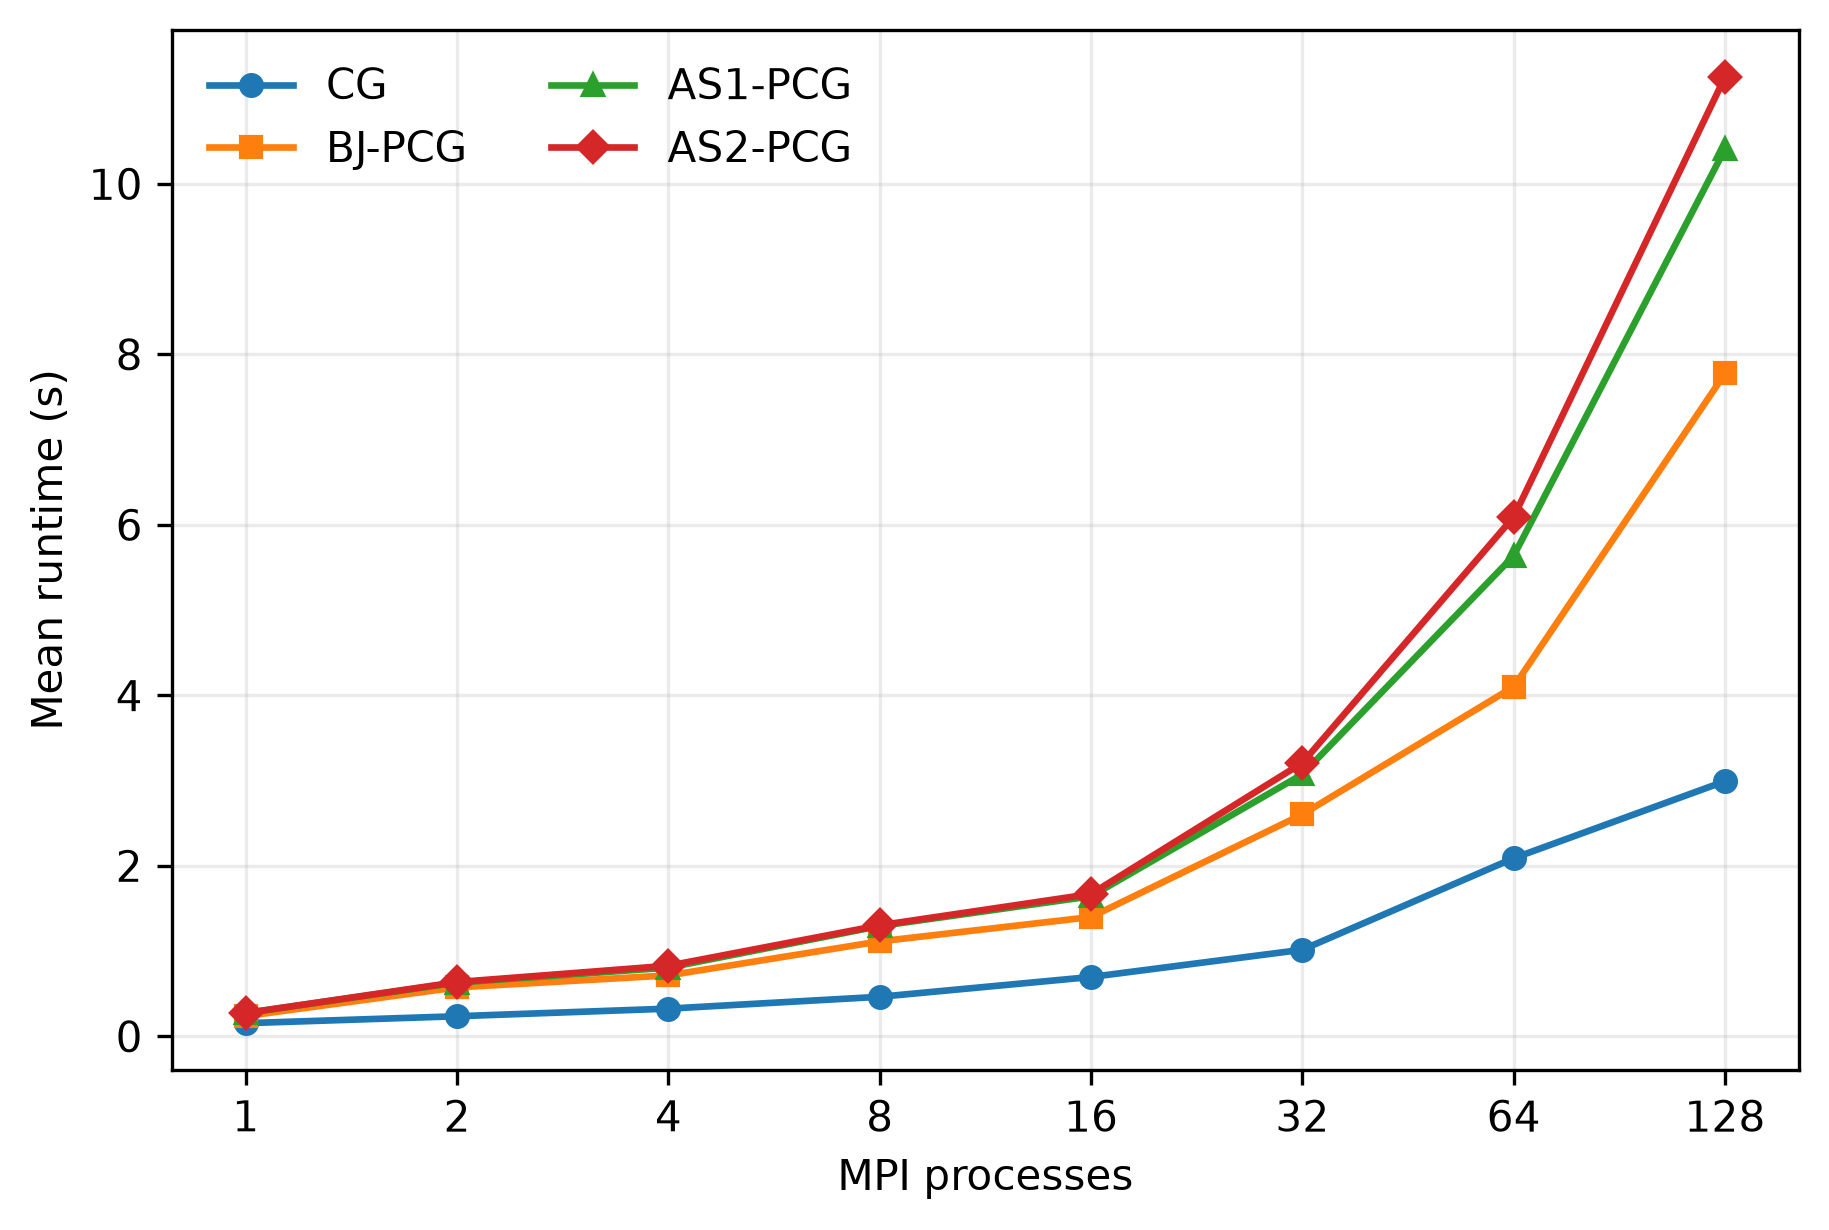
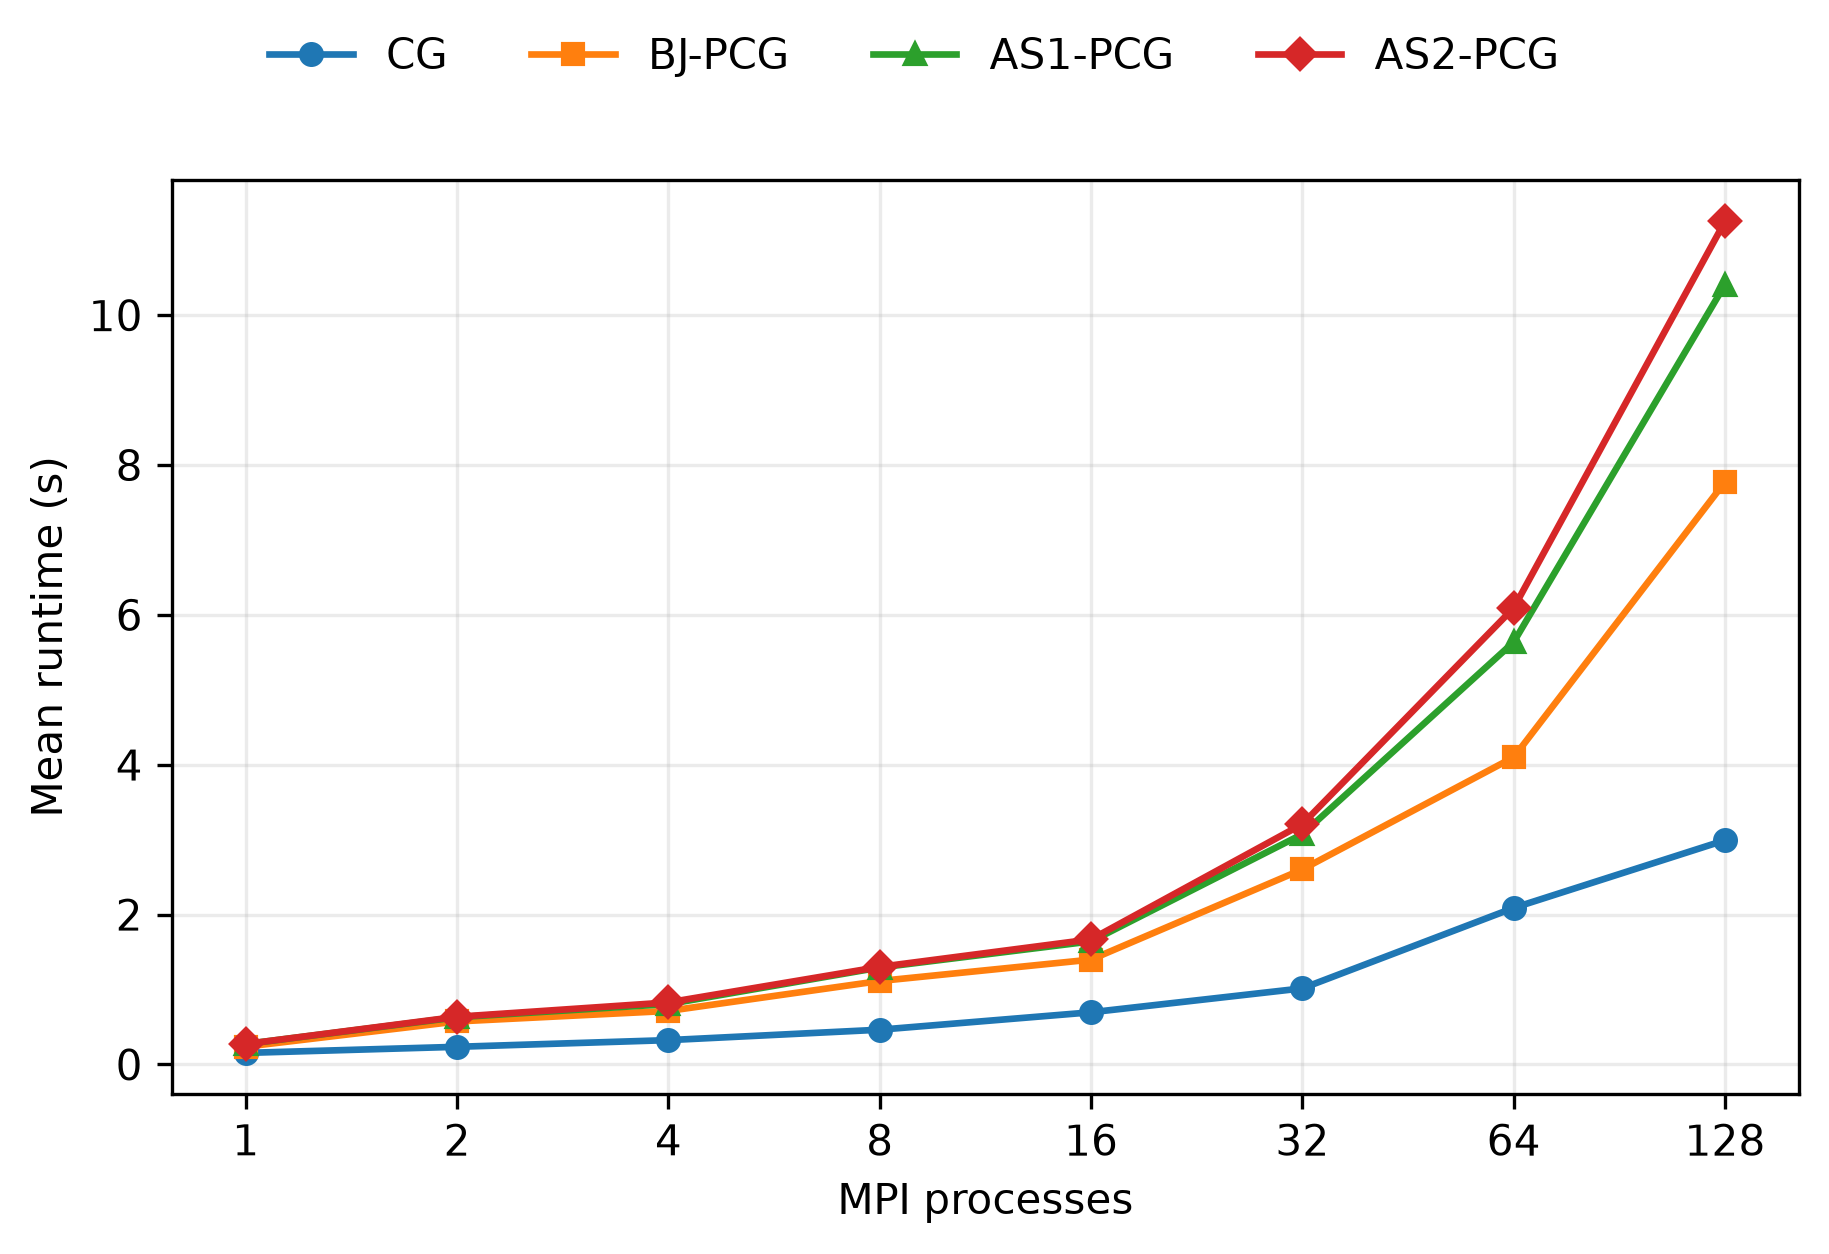
Align weak scaling figure legend

diff --git a/results/final10/plot_weak_scaling.py b/results/final10/plot_weak_scaling.py
@@ -80,12 +80,17 @@ ax.set_ylabel("Mean runtime (s)")
 
 ax.grid(True, alpha=0.25)
 
-ax.legend(
-    ncol=2,
+handles, legend_labels = ax.get_legend_handles_labels()
+
+fig.legend(
+    handles,
+    legend_labels,
+    loc="upper center",
+    ncol=4,
     frameon=False,
 )
 
-plt.tight_layout()
+plt.tight_layout(rect=[0, 0, 1, 0.90])
 
 plt.savefig(
     "results/final10/figures/weak_scaling_runtime.pdf",
